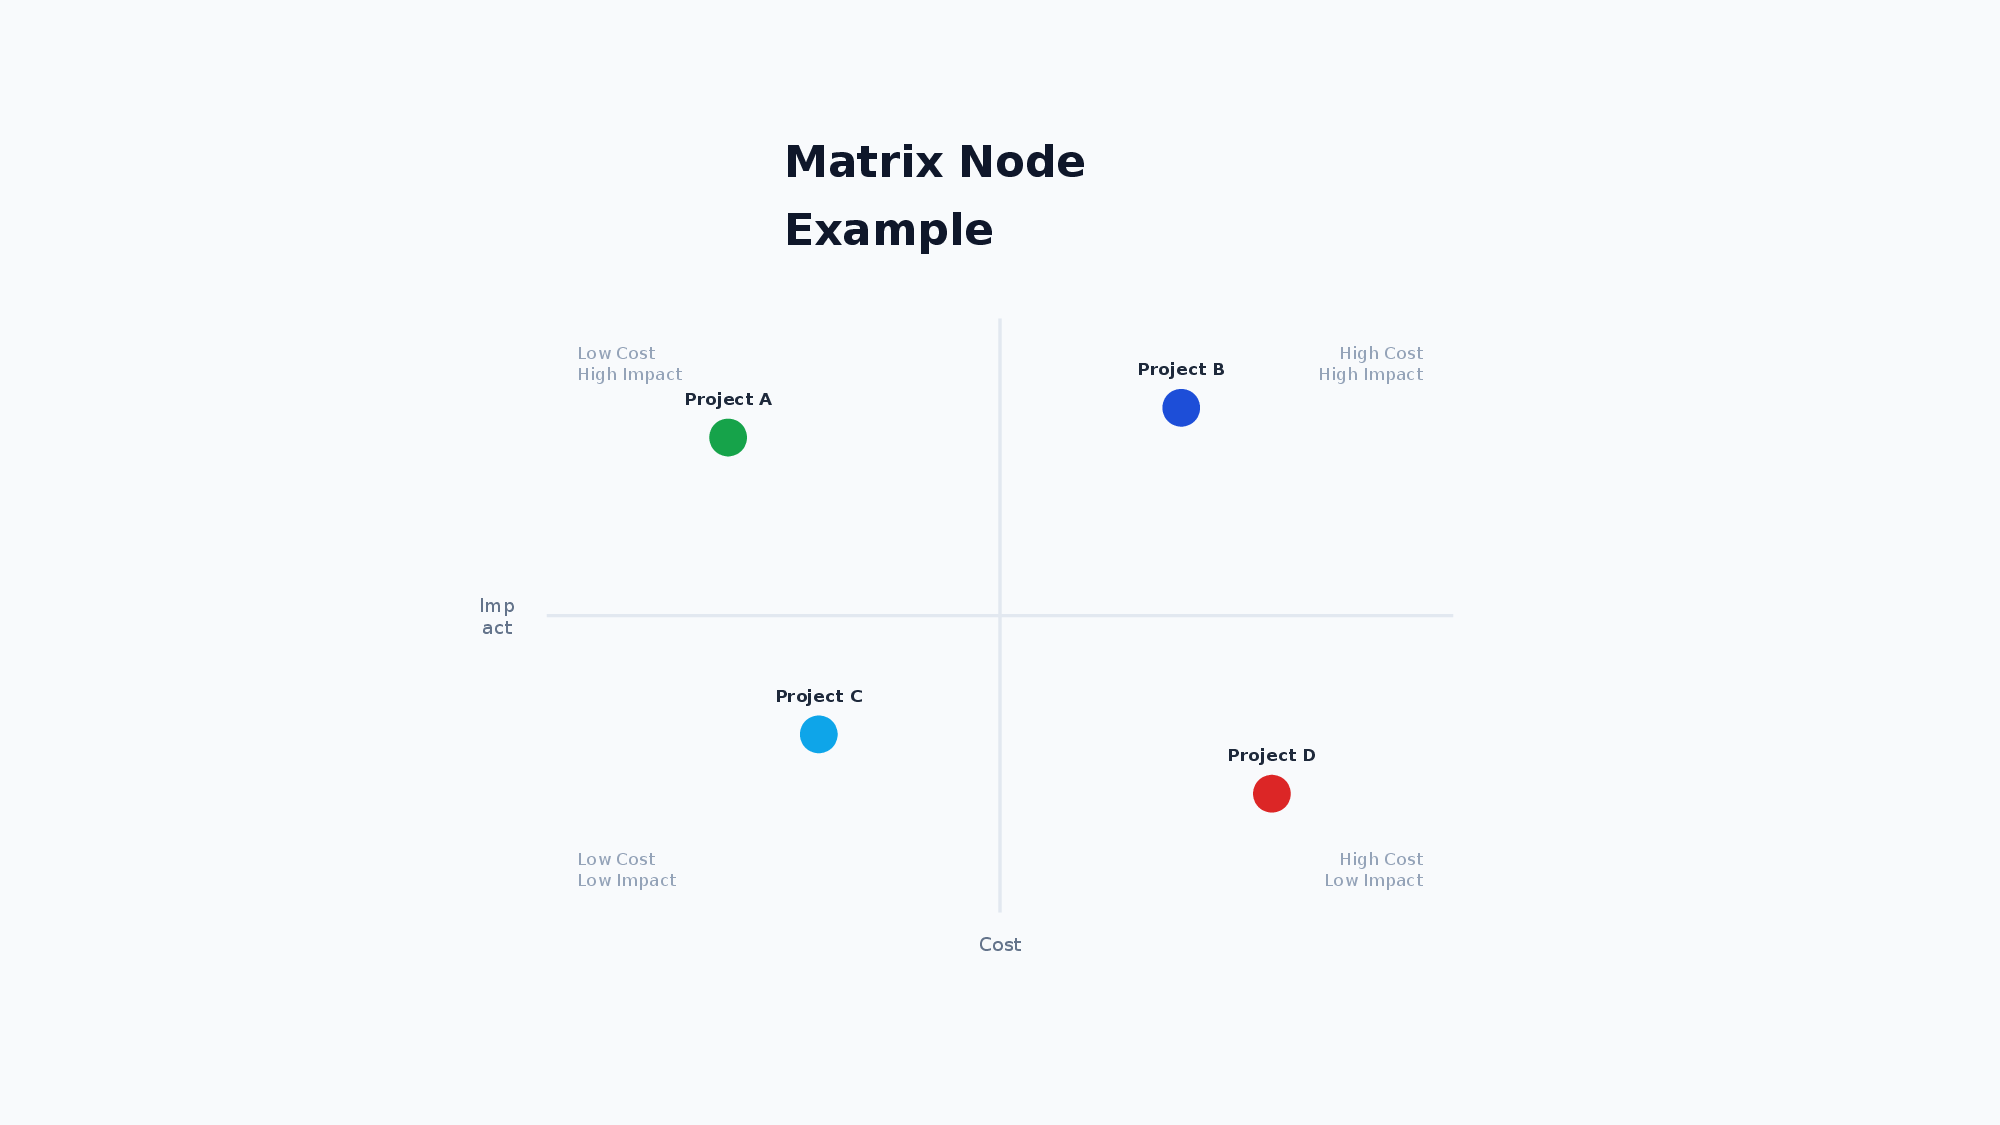
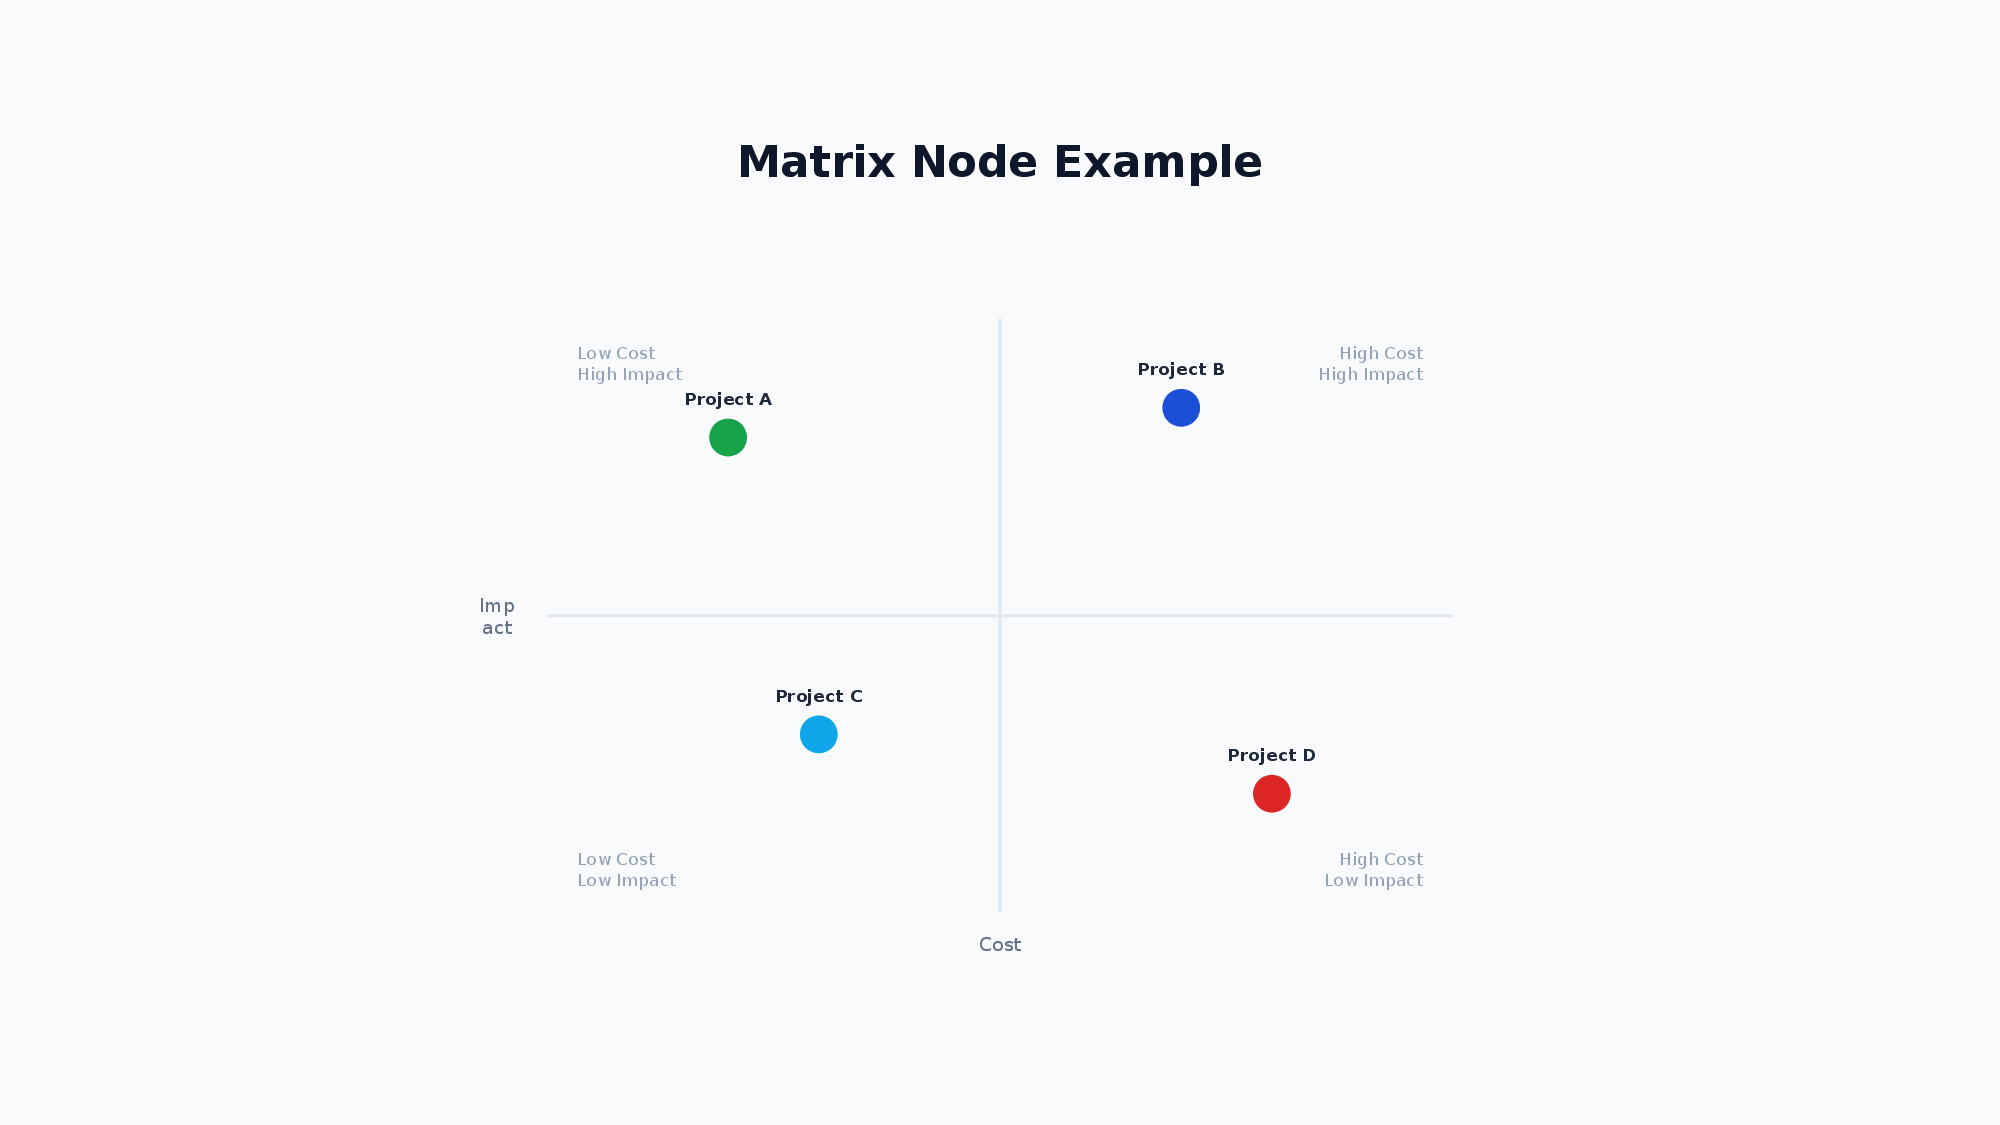
docs: ドキュメント用ノード画像のテキスト折り返し問題を修正
textMeasurement を fallback から opentype に変更し、タイトルテキストに
w="100%" textAlign="center" を設定することで、LibreOffice レンダリング時の
フォント幅差異によるテキスト折り返しを防止

close #617

Changed region(s): [[0.372, 0.1244, 0.651, 0.1556], [0.372, 0.1867, 0.496, 0.2178]]

diff --git a/packages/pom/scripts/docs-images/sampleNodes.ts b/packages/pom/scripts/docs-images/sampleNodes.ts
@@ -14,7 +14,7 @@ const palette = {
 
 const textSample = `
 <VStack w="100%" h="max" padding="40" gap="32" justifyContent="center" alignItems="center" backgroundColor="${palette.background}">
-  <Text fontSize="28" bold="true" color="${palette.navy}">Text Node Example</Text>
+  <Text fontSize="28" bold="true" color="${palette.navy}" w="100%" textAlign="center">Text Node Example</Text>
   <HStack gap="60">
     <VStack gap="12">
       <Text fontSize="16" bold="true">Font Sizes</Text>
@@ -48,7 +48,7 @@ const sampleImageUrl = "sample_images/sample_0.png";
 
 const imageSample = `
 <VStack w="100%" h="max" padding="40" gap="32" justifyContent="center" alignItems="center" backgroundColor="${palette.background}">
-  <Text fontSize="28" bold="true" color="${palette.navy}">Image Node Example</Text>
+  <Text fontSize="28" bold="true" color="${palette.navy}" w="100%" textAlign="center">Image Node Example</Text>
   <HStack gap="60" alignItems="center">
     <Image src="${sampleImageUrl}" w="300" h="220" backgroundColor="FFFFFF" border.color="${palette.border}" border.width="1" padding="20" />
     <Image src="${sampleImageUrl}" w="250" h="250" backgroundColor="FFFFFF" border.color="${palette.border}" border.width="1" borderRadius="8" padding="20" />
@@ -59,7 +59,7 @@ const imageSample = `
 
 const tableSample = `
 <VStack w="100%" h="max" padding="40" gap="32" justifyContent="center" alignItems="center" backgroundColor="${palette.background}">
-  <Text fontSize="28" bold="true" color="${palette.navy}">Table Node Example</Text>
+  <Text fontSize="28" bold="true" color="${palette.navy}" w="100%" textAlign="center">Table Node Example</Text>
   <Table defaultRowHeight="48">
     <Col width="120" />
     <Col width="300" />
@@ -101,7 +101,7 @@ const tableSample = `
 
 const shapeSample = `
 <VStack w="100%" h="max" padding="40" gap="32" justifyContent="center" alignItems="center" backgroundColor="${palette.background}">
-  <Text fontSize="28" bold="true" color="${palette.navy}">Shape Node Example</Text>
+  <Text fontSize="28" bold="true" color="${palette.navy}" w="100%" textAlign="center">Shape Node Example</Text>
   <HStack gap="40" alignItems="center">
     <Shape shapeType="rect" w="180" h="120" fill.color="${palette.blue}" text="Rectangle" color="FFFFFF" fontSize="16" textAlign="center" />
     <Shape shapeType="roundRect" w="180" h="120" fill.color="${palette.green}" text="Rounded" color="FFFFFF" fontSize="16" textAlign="center" />
@@ -114,7 +114,7 @@ const shapeSample = `
 
 const chartSample = `
 <VStack w="100%" h="max" padding="40" gap="32" justifyContent="center" alignItems="center" backgroundColor="${palette.background}">
-  <Text fontSize="28" bold="true" color="${palette.navy}">Chart Node Example</Text>
+  <Text fontSize="28" bold="true" color="${palette.navy}" w="100%" textAlign="center">Chart Node Example</Text>
   <HStack gap="40">
     <Chart chartType="bar" w="360" h="300" showTitle="true" title="Bar Chart" showLegend="true" chartColors='["${palette.blue}","${palette.green}","${palette.red}"]'>
       <ChartSeries name="Q1">
@@ -156,7 +156,7 @@ const chartSample = `
 
 const timelineSample = `
 <VStack w="100%" h="max" padding="40" gap="32" justifyContent="center" alignItems="center" backgroundColor="${palette.background}">
-  <Text fontSize="28" bold="true" color="${palette.navy}">Timeline Node Example</Text>
+  <Text fontSize="28" bold="true" color="${palette.navy}" w="100%" textAlign="center">Timeline Node Example</Text>
   <Timeline direction="horizontal" w="100%" h="300">
     <TimelineItem date="2024 Q1" title="Phase 1" description="Planning &amp; Research" color="${palette.blue}" />
     <TimelineItem date="2024 Q2" title="Phase 2" description="Development" color="${palette.green}" />
@@ -168,7 +168,7 @@ const timelineSample = `
 
 const matrixSample = `
 <VStack w="100%" h="max" padding="40" gap="32" justifyContent="center" alignItems="center" backgroundColor="${palette.background}">
-  <Text fontSize="28" bold="true" color="${palette.navy}">Matrix Node Example</Text>
+  <Text fontSize="28" bold="true" color="${palette.navy}" w="100%" textAlign="center">Matrix Node Example</Text>
   <Matrix w="700" h="500">
     <MatrixAxes x="Cost" y="Impact" />
     <MatrixQuadrants topLeft="Low Cost\nHigh Impact" topRight="High Cost\nHigh Impact" bottomLeft="Low Cost\nLow Impact" bottomRight="High Cost\nLow Impact" />
@@ -182,7 +182,7 @@ const matrixSample = `
 
 const treeSample = `
 <VStack w="100%" h="max" padding="40" gap="32" justifyContent="center" alignItems="center" backgroundColor="${palette.background}">
-  <Text fontSize="28" bold="true" color="${palette.navy}">Tree Node Example</Text>
+  <Text fontSize="28" bold="true" color="${palette.navy}" w="100%" textAlign="center">Tree Node Example</Text>
   <Tree layout="vertical" nodeShape="roundRect" w="100%" h="500" connectorStyle.color="${palette.charcoal}" connectorStyle.width="2">
     <TreeItem label="CEO" color="${palette.navy}">
       <TreeItem label="CTO" color="${palette.blue}">
@@ -204,7 +204,7 @@ const treeSample = `
 
 const flowSample = `
 <VStack w="100%" h="max" padding="40" gap="32" justifyContent="center" alignItems="center" backgroundColor="${palette.background}">
-  <Text fontSize="28" bold="true" color="${palette.navy}">Flow Node Example</Text>
+  <Text fontSize="28" bold="true" color="${palette.navy}" w="100%" textAlign="center">Flow Node Example</Text>
   <Flow direction="horizontal" w="100%" h="400" connectorStyle.color="${palette.charcoal}" connectorStyle.width="2">
     <FlowNode id="start" shape="flowChartTerminator" text="Start" color="${palette.green}" />
     <FlowNode id="input" shape="flowChartInputOutput" text="Input Data" color="${palette.lightBlue}" />
@@ -221,7 +221,7 @@ const flowSample = `
 
 const processArrowSample = `
 <VStack w="100%" h="max" padding="40" gap="32" justifyContent="center" alignItems="center" backgroundColor="${palette.background}">
-  <Text fontSize="28" bold="true" color="${palette.navy}">ProcessArrow Node Example</Text>
+  <Text fontSize="28" bold="true" color="${palette.navy}" w="100%" textAlign="center">ProcessArrow Node Example</Text>
   <ProcessArrow direction="horizontal" w="100%" h="120">
     <ProcessArrowStep label="Planning" color="4472C4" />
     <ProcessArrowStep label="Design" color="5B9BD5" />
@@ -252,7 +252,7 @@ const processArrowSample = `
 
 const pyramidSample = `
 <VStack w="100%" h="max" padding="40" gap="32" justifyContent="center" alignItems="center" backgroundColor="${palette.background}">
-  <Text fontSize="28" bold="true" color="${palette.navy}">Pyramid Node Example</Text>
+  <Text fontSize="28" bold="true" color="${palette.navy}" w="100%" textAlign="center">Pyramid Node Example</Text>
   <HStack gap="60" alignItems="center">
     <VStack gap="12">
       <Text fontSize="14" bold="true">direction: up (default)</Text>
@@ -278,7 +278,7 @@ const pyramidSample = `
 
 const vstackSample = `
 <VStack w="100%" h="max" padding="40" gap="32" justifyContent="center" alignItems="center" backgroundColor="${palette.background}">
-  <Text fontSize="28" bold="true" color="${palette.navy}">VStack Node Example</Text>
+  <Text fontSize="28" bold="true" color="${palette.navy}" w="100%" textAlign="center">VStack Node Example</Text>
   <HStack gap="48">
     <VStack w="280" h="350" gap="12" alignItems="start" backgroundColor="FFFFFF" border.color="${palette.border}" border.width="1" padding="20">
       <Text fontSize="14" bold="true">alignItems: start</Text>
@@ -304,7 +304,7 @@ const vstackSample = `
 
 const hstackSample = `
 <VStack w="100%" h="max" padding="40" gap="32" justifyContent="center" backgroundColor="${palette.background}">
-  <Text fontSize="28" bold="true" color="${palette.navy}">HStack Node Example</Text>
+  <Text fontSize="28" bold="true" color="${palette.navy}" w="100%" textAlign="center">HStack Node Example</Text>
   <VStack gap="20">
     <HStack w="100%" h="120" gap="20" justifyContent="start" alignItems="center" backgroundColor="FFFFFF" border.color="${palette.border}" border.width="1" padding="20">
       <Text fontSize="14" bold="true" w="200">justifyContent: start</Text>
@@ -330,7 +330,7 @@ const hstackSample = `
 
 const iconSample = `
 <VStack w="100%" h="max" padding="40" gap="32" justifyContent="center" alignItems="center" backgroundColor="${palette.background}">
-  <Text fontSize="28" bold="true" color="${palette.navy}">Icon Node Example</Text>
+  <Text fontSize="28" bold="true" color="${palette.navy}" w="100%" textAlign="center">Icon Node Example</Text>
   <HStack gap="32">
     <VStack gap="20" padding="24" backgroundColor="FFFFFF" border.color="${palette.border}" border.width="1">
       <Text fontSize="16" bold="true">Basic Icons</Text>

diff --git a/packages/pom/scripts/docs-images/generateNodeImages.ts b/packages/pom/scripts/docs-images/generateNodeImages.ts
@@ -27,7 +27,7 @@ async function generateNodeImage(
   const { pptx } = await buildPptx(
     sampleXml,
     { w: SLIDE_WIDTH, h: SLIDE_HEIGHT },
-    { textMeasurement: "fallback" },
+    { textMeasurement: "opentype" },
   );
 
   // PPTXをバッファとして取得
